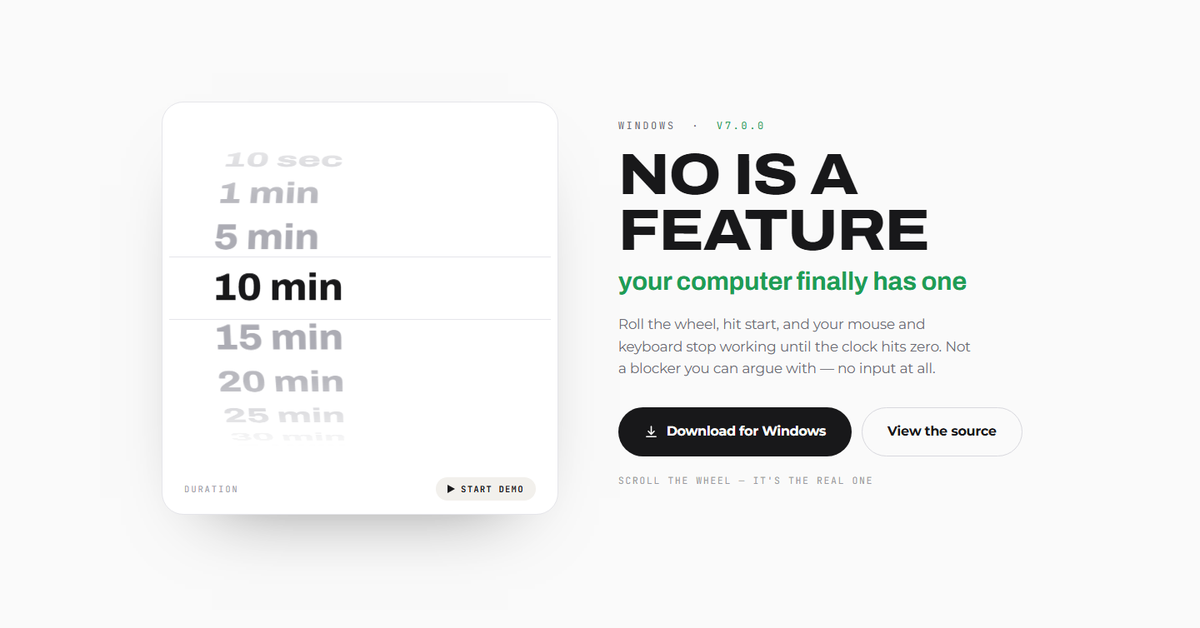
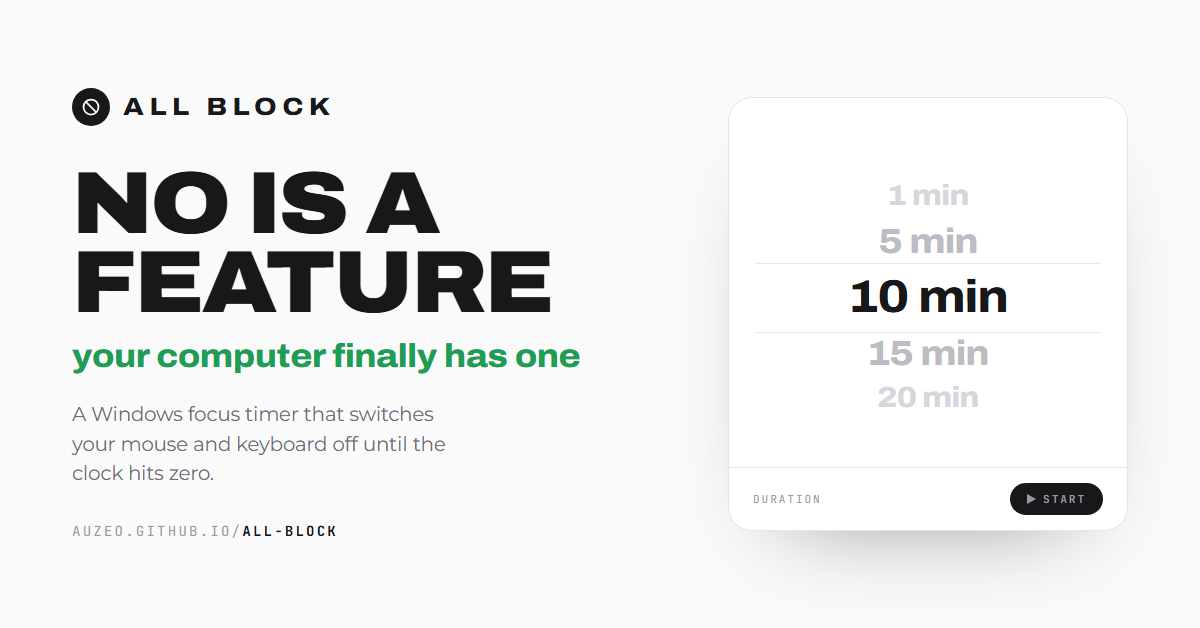
docs: purpose-built link preview card instead of a page screenshot
A screenshot of the landing page loses all its text at the size a chat
app renders a preview. This is drawn for the card: the headline at a
weight that survives the downscale, the wheel as the supporting element.
docs/og-card.html is the source, re-render it at 1200x628 to change it.

diff --git a/docs/og-card.html b/docs/og-card.html
@@ -1,0 +1,108 @@
+<!doctype html>
+<html lang="en">
+<head>
+<meta charset="utf-8">
+<link rel="preconnect" href="https://fonts.googleapis.com">
+<link rel="preconnect" href="https://fonts.gstatic.com" crossorigin>
+<link href="https://fonts.googleapis.com/css2?family=Archivo:wdth,wght@75..125,400..900&family=Montserrat:wght@400;500;600;700&family=JetBrains+Mono:wght@400;700&display=swap" rel="stylesheet">
+<style>
+:root{
+  --paper:#fafafa; --card:#ffffff; --sand:#f2f0ec;
+  --ink:#18181a; --ash:#6c6c74; --line:#e5e5ea; --lock:#1f9d55;
+  --display:"Archivo",system-ui,sans-serif;
+  --body:"Montserrat",system-ui,sans-serif;
+  --mono:"JetBrains Mono",ui-monospace,monospace;
+}
+*{box-sizing:border-box;margin:0}
+body{width:1200px;height:628px;background:var(--paper);color:var(--ink);
+  font-family:var(--body);overflow:hidden}
+
+.card{width:1200px;height:628px;padding:66px 72px;
+  display:grid;grid-template-columns:1fr 400px;gap:56px;align-items:center}
+
+/* ── left: the claim ─────────────────────────────────────────────── */
+.mark{display:flex;align-items:center;gap:13px}
+.dot{width:38px;height:38px;border-radius:50%;background:var(--ink);
+  display:grid;place-items:center}
+.dot svg{width:20px;height:20px}
+.name{font-family:var(--display);font-weight:800;font-size:25px;
+  letter-spacing:.22em;font-variation-settings:"wdth" 112}
+
+h1{font-family:var(--display);font-weight:900;font-size:88px;line-height:.9;
+  letter-spacing:-.025em;font-variation-settings:"wdth" 112;
+  text-transform:uppercase;margin-top:38px}
+.sub{font-family:var(--display);font-weight:800;font-size:33px;
+  color:var(--lock);letter-spacing:-.01em;margin-top:16px;
+  font-variation-settings:"wdth" 108}
+.line{margin-top:26px;font-size:19.5px;line-height:1.5;color:var(--ash);
+  max-width:29ch}
+.url{margin-top:34px;font-family:var(--mono);font-size:14px;
+  letter-spacing:.16em;text-transform:uppercase;color:#9a9aa2}
+.url b{color:var(--ink);font-weight:700}
+
+/* ── right: the wheel, the one thing the app actually is ─────────── */
+.wheel{background:var(--card);border:1px solid var(--line);border-radius:24px;
+  padding:30px 0 0;box-shadow:0 40px 90px -60px rgba(0,0,0,.5);
+  height:434px;display:flex;flex-direction:column;overflow:hidden}
+.opts{flex:1;position:relative;display:flex;flex-direction:column;
+  justify-content:center;align-items:center;gap:2px}
+.opt{font-family:var(--display);font-weight:800;letter-spacing:-.02em;
+  font-variation-settings:"wdth" 110;line-height:1.34}
+/* the drum falls away above and below the pick, the way it does in the app */
+.o1{font-size:29px;color:#d6d6dc}
+.o2{font-size:35px;color:#bcbcc4}
+.o3{font-size:46px;color:var(--ink)}
+.o4{font-size:35px;color:#bcbcc4}
+.o5{font-size:29px;color:#d6d6dc}
+.rails{position:absolute;left:26px;right:26px;top:50%;height:70px;
+  margin-top:-35px;border-top:1px solid var(--line);
+  border-bottom:1px solid var(--line)}
+.foot{border-top:1px solid var(--line);padding:15px 24px;
+  display:flex;align-items:center;justify-content:space-between}
+.foot span{font-family:var(--mono);font-size:11px;letter-spacing:.18em;
+  text-transform:uppercase;color:#9a9aa2}
+.go{display:inline-flex;align-items:center;gap:7px;background:var(--ink);
+  color:var(--card);border-radius:999px;padding:9px 17px;
+  font-family:var(--mono);font-size:11px;font-weight:700;
+  letter-spacing:.14em;text-transform:uppercase}
+</style>
+</head>
+<body>
+<div class="card">
+  <div>
+    <div class="mark">
+      <span class="dot">
+        <svg viewBox="0 0 24 24" fill="none" stroke="#fafafa" stroke-width="2.1">
+          <circle cx="12" cy="12" r="9"/><path d="M5.6 5.6l12.8 12.8"/>
+        </svg>
+      </span>
+      <span class="name">ALL BLOCK</span>
+    </div>
+
+    <h1>No is a<br>feature</h1>
+    <p class="sub">your computer finally has one</p>
+    <p class="line">A Windows focus timer that switches your mouse and
+       keyboard off until the clock hits zero.</p>
+    <p class="url">auzeo.github.io/<b>all-block</b></p>
+  </div>
+
+  <div class="wheel">
+    <div class="opts">
+      <div class="rails"></div>
+      <span class="opt o1">1 min</span>
+      <span class="opt o2">5 min</span>
+      <span class="opt o3">10 min</span>
+      <span class="opt o4">15 min</span>
+      <span class="opt o5">20 min</span>
+    </div>
+    <div class="foot">
+      <span>Duration</span>
+      <span class="go">
+        <svg width="9" height="10" viewBox="0 0 9 10" fill="currentColor"><path d="M0 0l9 5-9 5z"/></svg>
+        Start
+      </span>
+    </div>
+  </div>
+</div>
+</body>
+</html>

diff --git a/docs/index.html b/docs/index.html
@@ -15,7 +15,7 @@
 <meta property="og:image" content="https://auzeo.github.io/all-block/img/og-cover.png">
 <meta property="og:image:width" content="1200">
 <meta property="og:image:height" content="628">
-<meta property="og:image:alt" content="The All Block landing page: a duration wheel set to 10 minutes beside the headline No is a feature.">
+<meta property="og:image:alt" content="All Block: the headline No is a feature, your computer finally has one, beside a duration wheel set to 10 minutes.">
 <meta name="twitter:card" content="summary_large_image">
 <meta name="twitter:title" content="All Block">
 <meta name="twitter:description" content="No is a feature. Your computer finally has one.">
